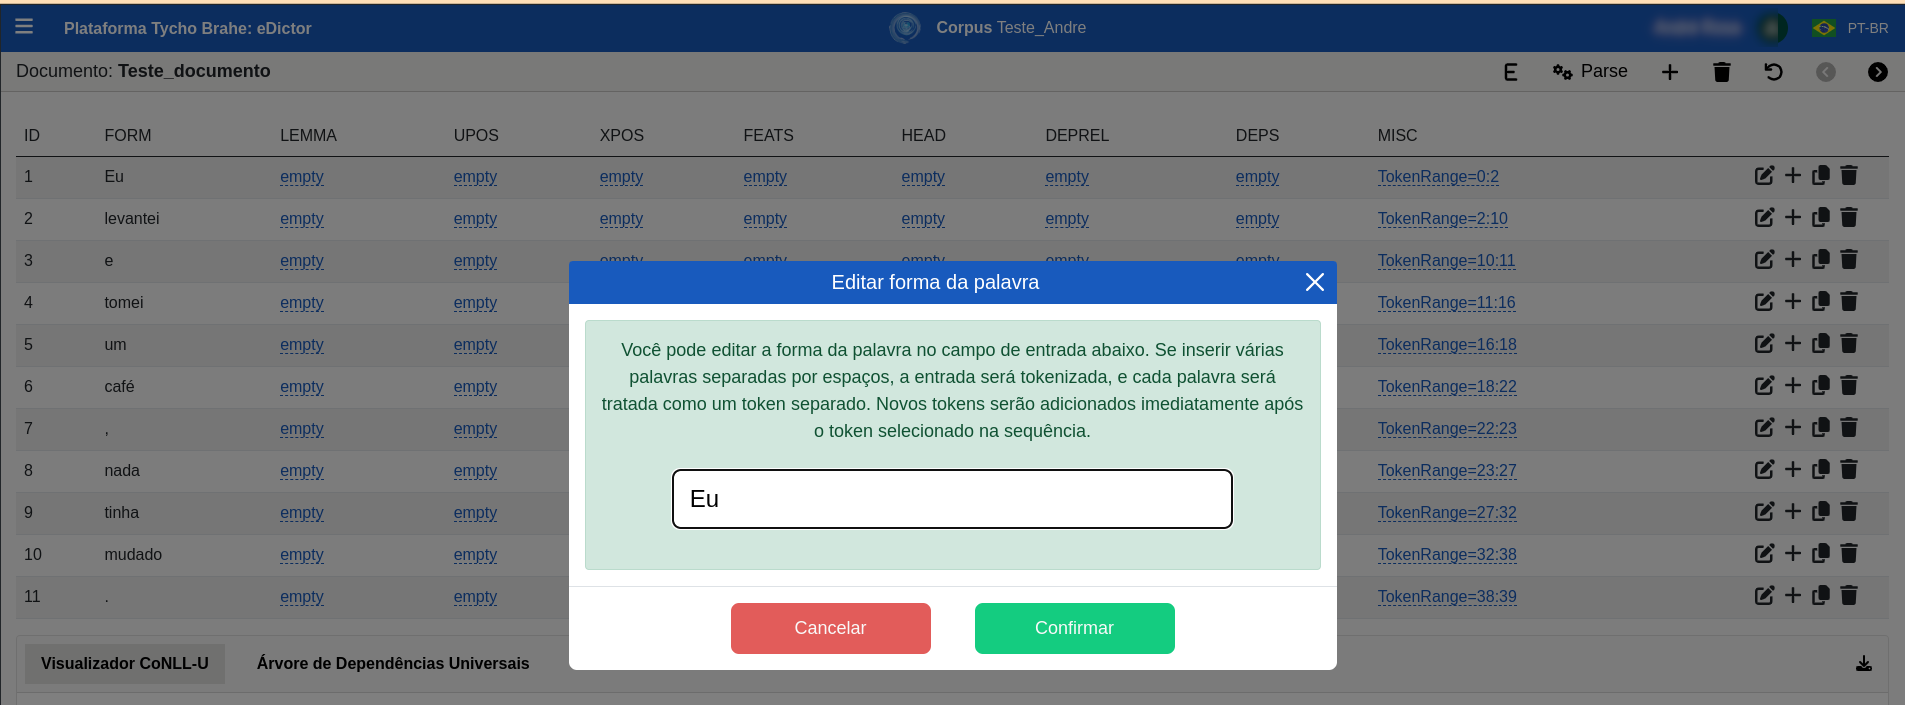
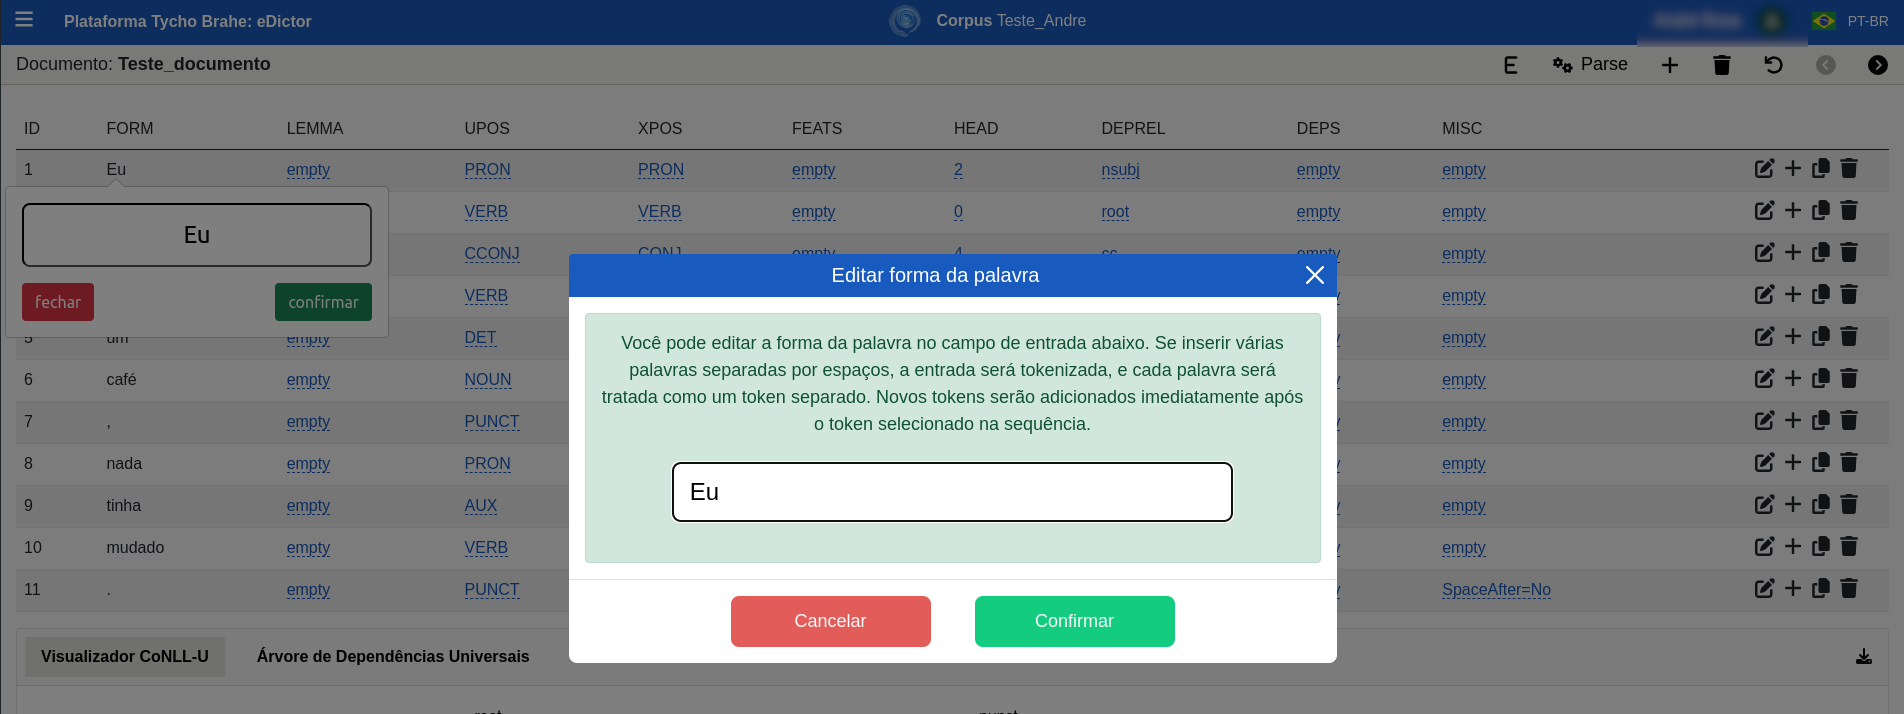
Atualizações 22 outubro

diff --git a/documentacao_md/documentacao.md b/documentacao_md/documentacao.md
@@ -32,7 +32,7 @@ SUMÁRIO
       - [**Tutorial: Fluxo alternativo**](#tutorial-fluxo-alternativo-1)
   - [Caso de uso 02 - Realizar _Sign in_ na Área Reservada](#caso-de-uso-02---realizar-sign-in-na-área-reservada)
     - [Descrição do Caso de uso 02 - Realizar _Sign in_ na Área Reservada](#descrição-do-caso-de-uso-02---realizar-sign-in-na-área-reservada)
-    - [Diagramas do Caso de uso 02 - _Sign in_](#diagramas-do-caso-de-uso-02---sign-in)
+    - [Diagramas do Caso de uso 02 - Sign in](#diagramas-do-caso-de-uso-02---sign-in)
     - [Tutorial: _Sign in_ de usuários](#tutorial-sign-in-de-usuários)
       - [**Tutorial: Fluxo normal**](#tutorial-fluxo-normal-2)
   - [Caso de uso 03 - Solicitar cadastro](#caso-de-uso-03---solicitar-cadastro)
@@ -63,19 +63,6 @@ SUMÁRIO
     - [Diagrama do Caso de uso 06.01 - **Use eDictor Translations: Edição de corpora**](#diagrama-do-caso-de-uso-0601---use-edictor-translations-edição-de-corpora)
     - [Tutorial:](#tutorial-2)
       - [**Tutorial: Fluxo normal**](#tutorial-fluxo-normal-7)
-      - [\*\*Tutorial: Fluxo Alternativo](#tutorial-fluxo-alternativo-4)
-    - [Tutorial: Guia do Usuário Final (SE HOUVER)](#tutorial-guia-do-usuário-final-se-houver-1)
-      - [\*\*Tutorial: Fluxo normal \*\*](#tutorial-fluxo-normal--1)
-      - [**Tutorial: Fluxo alternativo**](#tutorial-fluxo-alternativo-5)
-  - [Caso de uso 0X - NOME CASO DE USO](#caso-de-uso-0x---nome-caso-de-uso)
-    - [Descrição Caso de uso X](#descrição-caso-de-uso-x)
-    - [Diagrama do Caso de uso 0X - NOME CASO](#diagrama-do-caso-de-uso-0x---nome-caso)
-    - [Tutorial:](#tutorial-3)
-      - [**Tutorial: Fluxo normal**](#tutorial-fluxo-normal-8)
-      - [\*\*Tutorial: Fluxo Alternativo](#tutorial-fluxo-alternativo-6)
-    - [Tutorial: Guia do Usuário Final (SE HOUVER)](#tutorial-guia-do-usuário-final-se-houver-2)
-      - [\*\*Tutorial: Fluxo normal \*\*](#tutorial-fluxo-normal--2)
-      - [**Tutorial: Fluxo alternativo**](#tutorial-fluxo-alternativo-7)
 
 ## Introdução
 
@@ -393,12 +380,10 @@ A Área Reservada dá acesso ao Catálogo, eDictor, Syntrees, Parser e Centro Ad
 2. O usuário acessa a "Área Reservada".
 3. O usuário clica no botão “Fazer login com o Google” e abre-se uma janela de seleção a conta Google com a qual deseja realizar o sign in na plataforma Tycho Brahe (conta já cadastrada no processo de cadastro na plataforma). No caso de não ser o primeiro _sign in_, a conta já utilizada anteriormente já aparece como primeira opção.
 
-### Diagramas do Caso de uso 02 - _Sign in_
+### Diagramas do Caso de uso 02 - Sign in
 
-<figure>
-<img src = "../imagens/caso02_diagrama.png" alt = "Caso 02">
-<figcaption>Figura 10: Diagrama Caso de uso 02</figcaption>
-</figure>
+!["Diagrama Caso de uso 02"](../imagens/caso02_diagrama.png)
+Figura 10: Diagrama Caso de uso 02
 
 ### Tutorial: _Sign in_ de usuários
 
@@ -798,6 +783,7 @@ Estas configurações habilitam a apresentação dos corpora paralelos como em 2
 ## Caso de uso 06 - Ferramenta **eDictor Translations**
 
 A ferramenta **Use eDictor Translations** habilita o uso da versão eDictor para desenvolvimento de corpora com suas traduções nas línguas configuradas e selecionadas pelo usuário. A habilitação desta ferramenta permite, consequentemente, a apresentação dos corpora de forma paralela, ou seja, com originais e traduções de forma paralela e sincronizada.
+
 <!--[REVISAR: AVALIAR SE FUTURAMENTE VOU INSERIR AS OUTRAS FUNCIONALIDADES DE EDIÇÃO DOS CORPORA AQUI: EDITAR ETIQUETAS DAS DIVERSAS CAMADAS ETC]-->
 
 ### Descrição Caso de uso 06.01 - Edição de corpora (Inserir, editar e remover sentenças) <!--[REVISAR: CONSIDERER SUBDIVIDIR OS CASOS?]-->
@@ -820,23 +806,41 @@ A ferramenta **Use eDictor Translations** habilita o uso da versão eDictor para
 4. Com o catálogo aberto, selecionar o corpus e documento que deseja editar.
 5. Acessar "Exibir informações" clicando no ícone com menu no documento do corpus.
 6. Na aba de ações que abre à esquerda, no campo "Continuar a edição do documento", clique na seta para abrir o menu de ferramentas de edição: selecionar o "eDictor Translations".
-7. Inserir textos (sentenças):
-   1. Selecionar "Inserir texto".
-   2. Inserir o texto fonte (original); selecionar o idioma de tradução; inserir texto traduzido. (Nota: sentenças a serem sincronizadas em paralelo podem ser separadas por quebra de linha).
-   3. Clicar em "Salvar" para salvar transcrições.
-   4. Clicar no botão "Sincronizar", para que as sentenças fonte e alvo sejam apresentados paralelamente.
-   5. Clicar em "Inserir sentenças" para inserir sentenças paralelas no documento do corpus.
-8. Apagar textos transcritos (ainda não sincronizados):
-   1. Selecionar "Inserir texto"
-   2. Clicar em "Apagar" para apagar textos transcritos (Textos já sincronizados são mantidos)
-9. Editar sentenças sincronizadas:
-   1. Selecionar um par de sentenças.
-   2. Selecionar botão E (eDictor).
-   3. Para editar o original: no quadro, clicar na palavra que desejar atualizar, editar e confirmar.
-   4. Para editar a tradução: rolar a página até o campo de "Traduções", editar o campo com o texto e salvar.
-10. Remover sentenças sincronizadas:
-   1. Selecionar um par de sentenças.
-   2. Clicar em "Remover" e confirmar.
+   1. Inserir textos (sentenças):
+      1. Selecionar "Inserir texto".
+      2. Inserir o texto fonte (original); selecionar o idioma de tradução; inserir texto traduzido. (Nota: sentenças a serem sincronizadas em paralelo podem ser separadas por quebra de linha).
+      3. Clicar em "Salvar" para salvar transcrições.
+      4. Clicar no botão "Sincronizar", para que as sentenças fonte e alvo sejam apresentados paralelamente.
+      5. Clicar em "Inserir sentenças" para inserir sentenças paralelas no documento do corpus.
+   2. Apagar textos transcritos (ainda não sincronizados):
+      1. Selecionar "Inserir texto"
+      2. Clicar em "Apagar" para apagar textos transcritos (Textos já sincronizados são mantidos)
+   3. Editar sentenças sincronizadas:
+      1. Via botão E - eDictor:
+         1. Selecionar um par de sentenças.
+         2. Selecionar botão E (eDictor).
+         3. Para editar o original: no quadro, clicar no ícone de "lápis" (edição) da palavra que desejar, editar a palavra e confirmar.
+         4. Para editar a tradução: rolar a página até o campo de "Traduções", editar o campo com o texto e salvar.
+         5. Para outras edições da palavra: clicar em "...",
+            1. "Inserir": inserir palavra á direita
+            2. "Dividir": dividir palavra em duas
+            3. "Unir": unir palavras
+            4. "Variações" <!--REVISAR: NÃO SURTE EFEITO-->
+            5. "Remover": remover palavra
+         6. Para edições da sentença, clicar em "...":
+            1. "Dividir": dividir sentença em duas (após token selecionado)
+            2. "Unir": unir com sentença seguinte
+      2. Via botão UD:
+         1. Selecionar um par de sentenças.
+         2. Selecionar botão UD (Dependências Universais).
+         3. Para editar o original: no quadro, na linha da palavra desejada clicar no ícone de lápis (edição) da palavra que desejar, editar a palavra e confirmar.
+         4. Para editar a tradução: não há edição de tradução com o botão UD selecionado.
+         5. Para incluir palavra: na linha da palavra selecionada, clicar em "+", editar o campo e confirmar.
+         6. Para aplicar informações de um token a todos tokens similares do documento: na linha da palavra objetivo, clicar no ícone de "cópia"
+         7. Para deletar: na linha da palavra, clicar no ícone com "lixeira" e confirmar.
+   4. Remover sentenças sincronizadas:
+      1. Selecionar um par de sentenças.
+      2. Clicar em no ícone de "lixeira" (remover) e confirmar.
 
 **Fluxo alternativo:**
 
@@ -865,7 +869,7 @@ Seguir o fluxo normal de 1 a 5, ou o fluxo A1, para acesso à ferramenta eDictor
 </figure>
 
 !["Caso de uso 6.01 - Ações no corpus"](../imagens/caso6.01.2_diagrama.png)
-Figura x: Cont. Diagrama Caso de uso 6.01 - Ações no corpus
+Figura x: Cont. Diagrama Caso de uso 6.01 - Ações no corpus <!--REVISAR: VOU TER DE MODIFICAR ESTA FIGURA NÃO SEI SE VALE A PENA-->
 
 ### Tutorial:
 
@@ -876,73 +880,58 @@ Figura x: Cont. Diagrama Caso de uso 6.01 - Ações no corpus
 1. Acesse a página inicial da plataforma Tycho Brahe, através do link: <https://www.tycho.iel.unicamp.br/home> .
 
 2. Navegue até a área "Ferramentas" e selecione "Área Reservada".
-!["Acessando área reservada"](../imagens/acesso_area_reservada.png)
-Figura x: Acessando "Área Reservada"<br><br>
+   !["Acessando área reservada"](../imagens/acesso_area_reservada.png)
+   Figura x: Acessando "Área Reservada"<br><br>
 
 3. Na página de perfil que se abre, os corpora disponíveis, vinculados ao usuário, são apresentados. Selecione o corpus que deseja configurar e clique no botão "eDictor" na área de "Acesso rápido" ou "eDictor" na área "Minhas Ferramentas" e selecione o corpus que deseja configurar.
-!["Selecionando o eDictor"](../imagens/acesso_rapido_edictor.png)
-Figura x: Selecionando a ferramenta eDictor <br><br>
+   !["Selecionando o eDictor"](../imagens/acesso_rapido_edictor.png)
+   Figura x: Selecionando a ferramenta eDictor <br><br>
 
 4. Com o catálogo aberto, clique sobre o nome do corpus e como em [1] para abrir a lista suspensa com os corpora disponíveis e selecione o corpus que deseja editar [2], como na Figura x:
-!["Selecionando um corpus no catálogo"](../imagens/edictor_selecionando_corpus.png)
-Figura x: Selecionando um corpus no catálogo</figcaption><br><br>
+   !["Selecionando um corpus no catálogo"](../imagens/edictor_selecionando_corpus.png)
+   Figura x: Selecionando um corpus no catálogo</figcaption><br><br>
 
 5. Após selecionar o corpus que deseja editar, acesse "Exibir informações" clicando no ícone com menu (menu com seis pontos) no documento do corpus.
-!["Acessando "Exibir informações"](../imagens/edict_trans_exibir_info.png)
-Figura x: Acessando "Exibir informações"<br><br>
+   !["Acessando "Exibir informações"](../imagens/edict_trans_exibir_info.png)
+   Figura x: Acessando "Exibir informações"<br><br>
 
 6. Na aba de "Ações" , na menu que abre à esquerda, no campo "Continuar a edição do documento", clique na seta para abrir o menu de ferramentas de edição: selecionar o "eDictor Translations" (Nota: o botão de configuração de parâmetros "Use eDictor Translations" deve estar habilitado para habilitar a edição através do **eDictor Translations**).
-!["Abrir edição com "eDictor Translations""](../imagens/exib_info_selecionando_ferramentas_edicao.png)
-Figura x: Ações - Abrir edição com "eDictor Translations"<br><br>
+   !["Abrir edição com "eDictor Translations""](../imagens/exib_info_selecionando_ferramentas_edicao.png)
+   Figura x: Ações - Abrir edição com "eDictor Translations"<br><br>
 
-7. Para inserir textos (sentenças):
-   1. Selecione o botão "Inserir texto".
-   2. Preencha o campo que apresenta "Digite ou cole o texto no idioma original" com o texto fonte (original); selecione o idioma de tradução; preencha o campo "Digite ou cole o texto traduzido em: [idioma selecionado para tradução]" com o texto traduzido.
-   3. Clique em "Salvar" para salvar transcrições.
-   4. Clique no botão "Sincronizar", para que as sentenças fonte e alvo sejam sincronizadas apresentadas paralelamente.
-   5. Clique em "Inserir sentenças" para que as sentenças sincronizadas sejam inseridas no documento do corpus.
-8. Apagar textos transcritos (ainda não sincronizados):
-   1. Selecione "Inserir texto"
-   2. Clique em "Apagar" para apagar textos transcritos (Textos já sincronizados são mantidos)
-   3. . Clique em "voltar" para retornar ao documento com suas sentenças paralelas.
+   1. Para inserir textos (sentenças):
+      1. Selecione o botão "Inserir texto".
+      2. Preencha o campo que apresenta "Digite ou cole o texto no idioma original" com o texto fonte (original); selecione o idioma de tradução; preencha o campo "Digite ou cole o texto traduzido em: [idioma selecionado para tradução]" com o texto traduzido.
+      3. Clique em "Salvar" para salvar transcrições.
+      4. Clique no botão "Sincronizar", para que as sentenças fonte e alvo sejam sincronizadas apresentadas paralelamente.
+      5. Clique em "Inserir sentenças" para que as sentenças sincronizadas sejam inseridas no documento do corpus.
+   2. Apagar textos transcritos (ainda não sincronizados):
+      1. Selecione "Inserir texto"
+      2. Clique em "Apagar" para apagar textos transcritos (Textos já sincronizados são mantidos)
+      3. . Clique em "voltar" para retornar ao documento com suas sentenças paralelas.
 
-Para 7 e 8, ver Figuras x e x, a seguir:
+   Para 7 e 8, ver Figuras x e x, a seguir:
 
-<figure>
-    <img src = "../imagens/edictor_trans_acoes_edicao.png">
-    <figcaption>Figura x: Ações no eDictor Translations</figcaption>
-</figure>
+      <figure>
+          <img src = "../imagens/edictor_trans_acoes_edicao.png">
+          <figcaption>Figura x: Ações no eDictor Translations</figcaption>
+      </figure>
 
-<figure>
-    <img src = "../imagens/edict_trans_sentencas_sincronizadas_inseridas.png">
-    <figcaption>Figura x: Sentenças sincronizadas e inseridas no documento</figcaption>
-</figure>
+      <figure>
+          <img src = "../imagens/edict_trans_sentencas_sincronizadas_inseridas.png">
+          <figcaption>Figura x: Sentenças sincronizadas e inseridas no documento</figcaption>
+      </figure>
 
-9. Editar sentenças sincronizadas [REVISAR: LUIS MODIFICOU A MANEIRA DE EDIÇÃO - NÃO PARECE TER SURTIDO EFEITO AINDA A MUDANÇAS. AGUARDAR ATUALIZAÇÃO]: <!--PAREI AQUI - 21 OUTUBRO-->
-   1. Selecionar um par de sentenças.
-   2. Selecionar botão E (eDictor).
-   3. Para editar o original: no quadro, clicar na palavra que desejar atualizar, editar e confirmar.
-   4. Para editar a tradução: rolar a página até o campo de "Traduções", editar o campo com o texto e salvar.
-10. Remover sentenças sincronizadas:
-11.  Selecionar um par de sentenças.
-12.  Clicar em "Remover" e confirmar.
+   3. Editar sentenças sincronizadas: 1. Via botão E - eDictor: 1. Com um corpus e documento selecionado, selecione um par de sentenças.
+      ![""]() 2. Selecione botão E (eDictor). 3. Para editar o original: no quadro, clique no ícone de "lápis" (edição) da palavra que desejar, editar a palavra e confirmar. 4. Para editar a tradução: rolar a página até o campo de "Traduções", editar o campo com o texto e salvar. 5. Para outras edições da palavra: clicar em "...", 1. "Inserir": inserir palavra á direita 2. "Dividir": dividir palavra em duas 3. "Unir": unir palavras 4. "Variações" <!--REVISAR: NÃO SURTE EFEITO--> 5. "Remover": remover palavra 6. Para edições da sentença, clicar em "...": 1. "Dividir": dividir sentença em duas (após token selecionado) 2. "Unir": unir com sentença seguinte 2. Via botão UD: 1. Selecionar um par de sentenças. 2. Selecionar botão UD (Dependências Universais). 3. Para editar o original: no quadro, na linha da palavra desejada clicar no ícone de lápis (edição) da palavra que desejar, editar a palavra e confirmar. 4. Para editar a tradução: não há edição de tradução com o botão UD selecionado. 5. Para incluir palavra: na linha da palavra selecionada, clicar em "+", editar o campo e confirmar. 6. Para aplicar informações de um token a todos tokens similares do documento: na linha da palavra objetivo, clicar no ícone de "cópia" 7. Para deletar: na linha da palavra, clicar no ícone com "lixeira" e confirmar.
+
+   4. Remover sentenças sincronizadas:
+      1. Selecionar um par de sentenças.
+      2. Clicar em no ícone de "lixeira" (remover) e confirmar.
 
 #########################
-note left of (Preencher textos)
-Inserir o texto fonte (original);
-Selecionar o idioma de tradução;
-Inserir texto traduzido e salvar as transcrições.
-end note
 
-note bottom of (Clicar em "Sincronizar")
-Sentenças fonte e alvo
-são apresentados paralelamente.
-end note
-
-note bottom of (Selecionar "Remover" e confirmar)
-Clicar em "confirmar" para remover a sentença
-selecionada
-end note
+<!--
 
 #### \*\*Tutorial: Fluxo Alternativo
 
@@ -1025,7 +1014,7 @@ end note
 
 #### **Tutorial: Fluxo alternativo**
 
-1.  <!--
+1.
     DÚVIDAS A TIRAR COM O LUIZ
 
 COMO DELETAR UM CORPUS? AINDA NÃO IMPLEMENTADO
